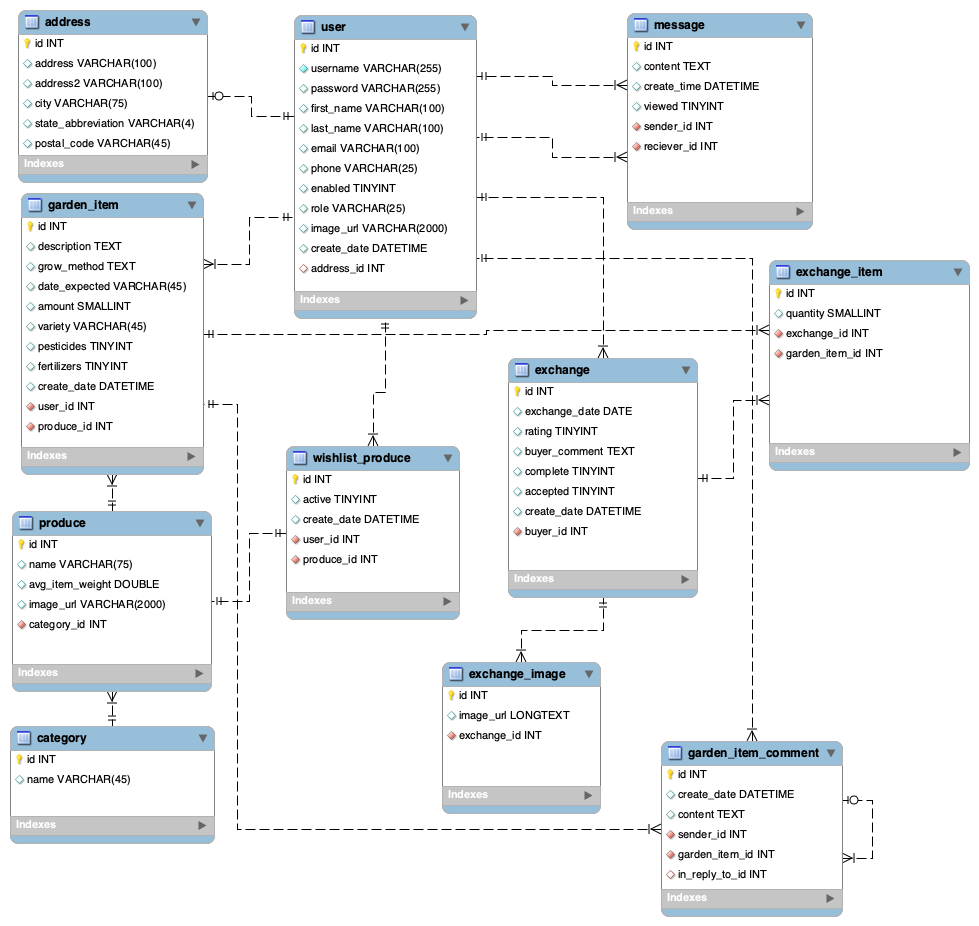
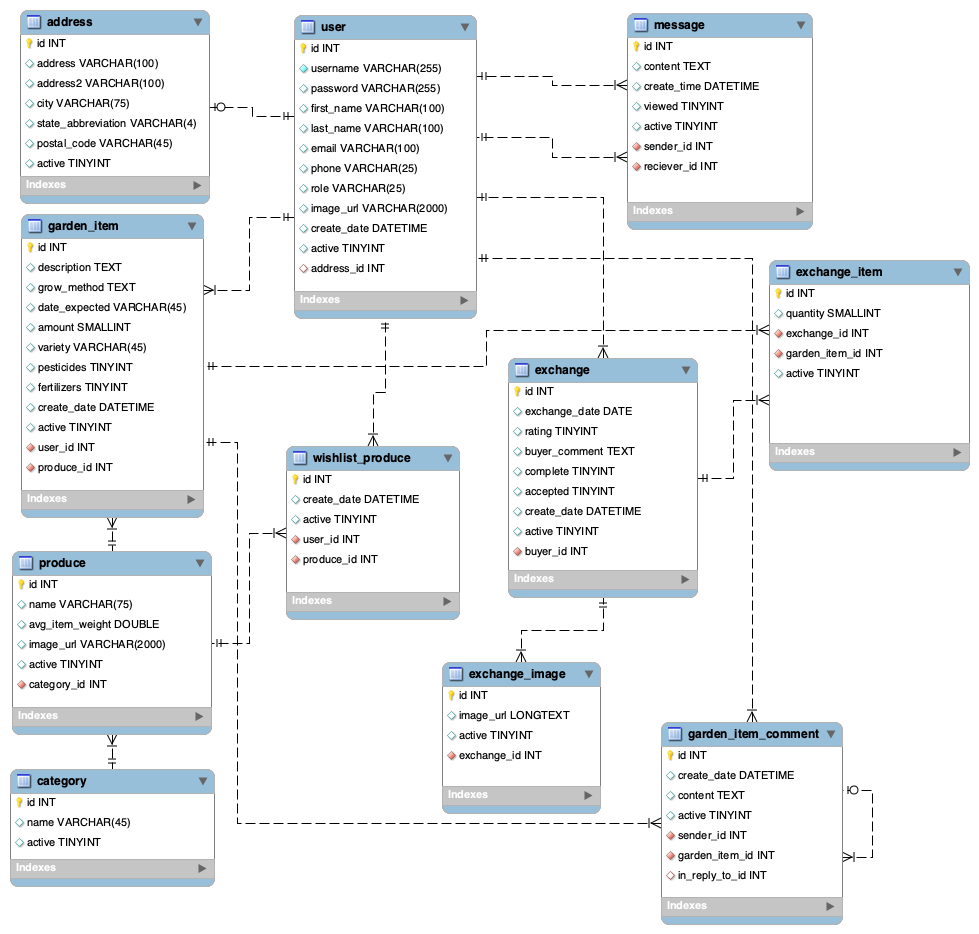
add active fields to User and Address

diff --git a/JPACultivAid/src/main/java/com/skilldistillery/cultivaid/entities/Address.java b/JPACultivAid/src/main/java/com/skilldistillery/cultivaid/entities/Address.java
@@ -5,7 +5,6 @@ import javax.persistence.Entity;
 import javax.persistence.GeneratedValue;
 import javax.persistence.GenerationType;
 import javax.persistence.Id;
-import javax.persistence.OneToOne;
 
 @Entity
 public class Address {
@@ -22,12 +21,14 @@ public class Address {
 	
 	private String city;
 	
+	
 	@Column(name="state_abbreviation")
 	private String stateAbbr;
 	
 	@Column(name="postal_code")
 	private String postalCode;
 	
+	private Boolean active;
 
 ////////////////////////// CONSTRUCTORS //////////////////////////////
 	
@@ -83,10 +84,18 @@ public class Address {
 		this.postalCode = postalCode;
 	}
 
+	public Boolean getActive() {
+		return active;
+	}
+
+	public void setActive(Boolean active) {
+		this.active = active;
+	}
+
 	@Override
 	public String toString() {
 		return "Address [id=" + id + ", address=" + address + ", address2=" + address2 + ", city=" + city
-				+ ", stateAbbr=" + stateAbbr + ", postalCode=" + postalCode + "]";
+				+ ", stateAbbr=" + stateAbbr + ", postalCode=" + postalCode + ", active=" + active + "]";
 	}
 
 	@Override

diff --git a/JPACultivAid/src/main/java/com/skilldistillery/cultivaid/entities/User.java b/JPACultivAid/src/main/java/com/skilldistillery/cultivaid/entities/User.java
@@ -40,7 +40,7 @@ public class User {
 	
 	private String phone;
 	
-	private Boolean enabled;
+	private Boolean active;
 	
 	private String role;
 	
@@ -132,12 +132,12 @@ public class User {
 		this.phone = phone;
 	}
 
-	public Boolean getEnabled() {
-		return enabled;
+	public Boolean getActive() {
+		return active;
 	}
 
-	public void setEnabled(Boolean enabled) {
-		this.enabled = enabled;
+	public void setActive(Boolean active) {
+		this.active = active;
 	}
 
 	public String getRole() {
@@ -240,7 +240,7 @@ public class User {
 	@Override
 	public String toString() {
 		return "User [id=" + id + ", username=" + username + ", password=" + password + ", firstName=" + firstName
-				+ ", lastName=" + lastName + ", email=" + email + ", phone=" + phone + ", enabled=" + enabled
+				+ ", lastName=" + lastName + ", email=" + email + ", phone=" + phone + ", active=" + active
 				+ ", role=" + role + ", imageUrl=" + imageUrl + ", createDate=" + createDate + "]";
 	}
 	

diff --git a/JPACultivAid/src/test/java/com/skilldistillery/cultivaid/entities/UserTest.java b/JPACultivAid/src/test/java/com/skilldistillery/cultivaid/entities/UserTest.java
@@ -54,7 +54,7 @@ class UserTest {
 		assertEquals("Smith", user.getLastName());
 		assertEquals("bobsmith@example.com", user.getEmail());
 		assertEquals("1234567890", user.getPhone());
-		assertTrue(user.getEnabled());
+		assertTrue(user.getActive());
 		assertEquals("admin", user.getRole());
 		assertEquals("https://upload.wikimedia.org/wikipedia/commons/a/ab/Abraham_Lincoln_O-77_matte_collodion_print.jpg", user.getImageUrl());
 	}

diff --git a/CultivAid/src/main/java/com/skilldistillery/cultivaid/services/AuthServiceImpl.java b/CultivAid/src/main/java/com/skilldistillery/cultivaid/services/AuthServiceImpl.java
@@ -24,7 +24,7 @@ public class AuthServiceImpl implements AuthService {
 		user.setPassword(encoder.encode(user.getPassword())); // Take the clear text password from the front end. Encode it. Replace it with encoded version.
 		
 //		set the enabled field of the object to true.
-		user.setEnabled(true);
+		user.setActive(true);
 		
 //		set the role field of the object to "standard".
 		user.setRole("standard");

diff --git a/JPACultivAid/src/test/java/com/skilldistillery/cultivaid/entities/AddressTest.java b/JPACultivAid/src/test/java/com/skilldistillery/cultivaid/entities/AddressTest.java
@@ -51,6 +51,7 @@ class AddressTest {
 		assertEquals("Colorado Springs", address.getCity());
 		assertEquals("CO", address.getStateAbbr());
 		assertEquals("80903", address.getPostalCode());
+		assertTrue(address.getActive());
 
 	}
 
